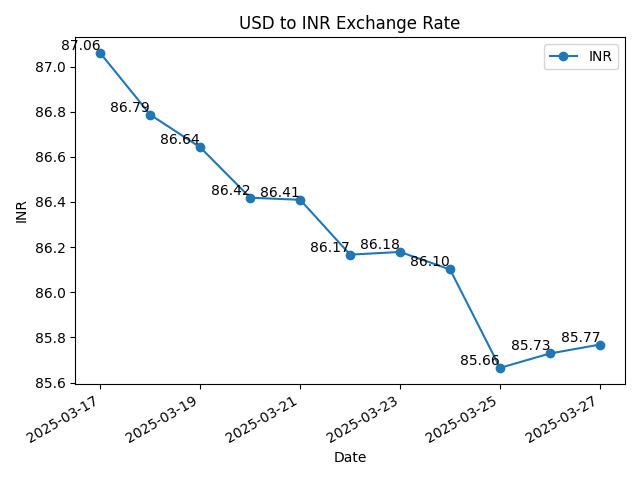
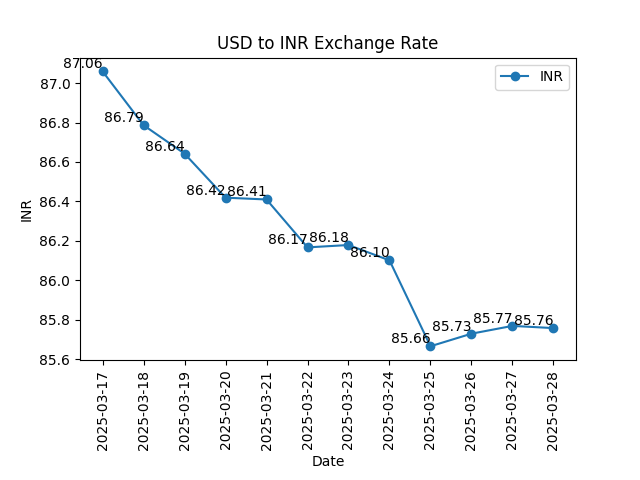
Update FII/DII buy/sell data with new entries for March 27, 2025, and add USD to INR exchange rate for March 28, 2025. Enhance visualization scripts by improving date formatting and layout adjustments for better readability.

diff --git a/src/dollar_vs_inr.py b/src/dollar_vs_inr.py
@@ -3,6 +3,7 @@ import pandas as pd
 import matplotlib.pyplot as plt
 import os
 from custom_dirs import DataDirectory, RootDirectory
+from matplotlib.dates import DayLocator, DateFormatter
 
 API_KEY = "bf4ade668e2827d69705ea67"  # Replace with your actual API key
 url = f"https://v6.exchangerate-api.com/v6/{API_KEY}/latest/USD"
@@ -69,14 +70,18 @@ def plot_and_save_usd_to_inr(df, filename=os.path.join(RootDirectory.path,"src",
         for i, row in df_inr.iterrows():
             ax.text(row['date'], row['INR'], f"{row['INR']:.2f}",
                     fontsize=10, ha='right', va='bottom', color='black')
-        plt.xticks(rotation=90)  # Rotates labels vertically
-        plt.gcf().autofmt_xdate()  # Improve the layout and rotation if necessary
+
+        # Format x-axis dates
+        ax.xaxis.set_major_locator(DayLocator())  # Show every day
+        ax.xaxis.set_major_formatter(DateFormatter('%Y-%m-%d'))  # Format as YYYY-MM-DD
+        plt.xticks(rotation=90, ha='center')  # Rotate labels vertically
+        
+        # Adjust layout to prevent label cutoff
+        plt.subplots_adjust(bottom=0.25)  # Add more space at the bottom
+        
         plt.title('USD to INR Exchange Rate')
         plt.xlabel('Date')
         plt.ylabel('INR')
-
-
-        plt.tight_layout()
 
         # Save the plot to a file
         plt.savefig(filename)

diff --git a/src/fii_dii_report.py b/src/fii_dii_report.py
@@ -3,6 +3,7 @@ import pandas as pd
 import matplotlib.pyplot as plt
 import os
 from datetime import datetime, timedelta
+from matplotlib.dates import DayLocator, DateFormatter
 
 from custom_dirs import DataDirectory, RootDirectory
 
@@ -92,11 +93,17 @@ def create_visualization(df, filename=os.path.join(RootDirectory.path, "src","fi
             ax.legend()
             ax.grid(True)
 
-            # Improve date label readability
-            plt.xticks(rotation=45, ha='right')  # Rotate and align labels to the right
-            plt.tight_layout()
+            # Format x-axis dates
+            ax.xaxis.set_major_locator(DayLocator())  # Show every day
+            ax.xaxis.set_major_formatter(DateFormatter('%Y-%m-%d'))  # Format as YYYY-MM-DD
+            plt.xticks(rotation=90, ha='center')  # Rotate labels vertically
+            
+            # Adjust layout to prevent label cutoff
+            plt.subplots_adjust(bottom=0.25)  # Add more space at the bottom
+            
             # Adjust x-axis limits
             ax.set_xlim(start_date, today)
+            
             # Save the plot
             plt.savefig(filename)
             print(f"Visualization saved to {filename}")
